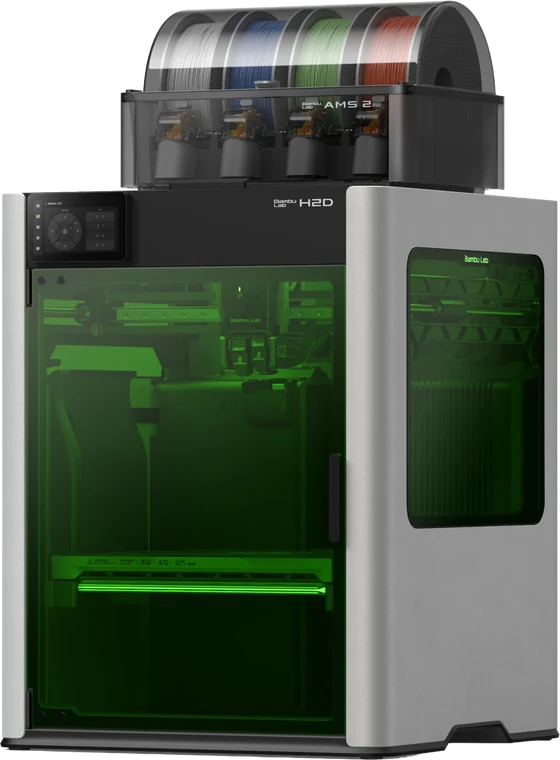
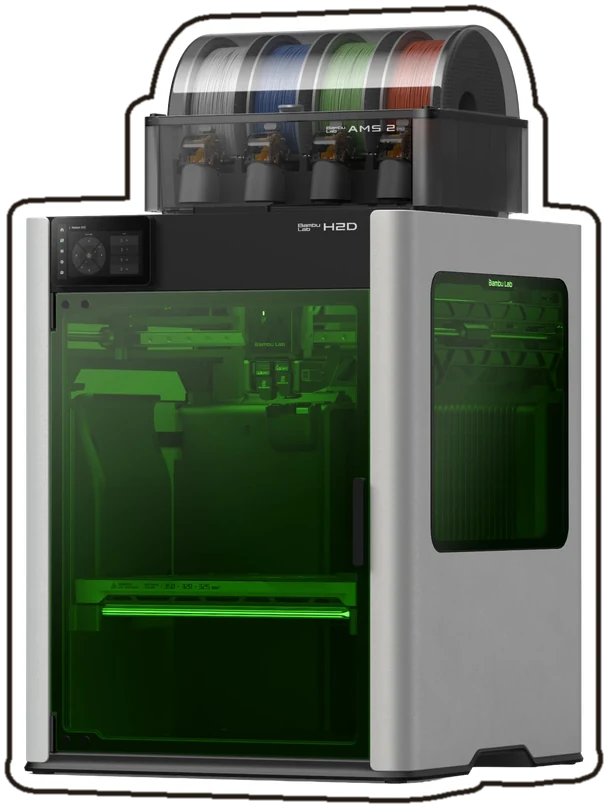
Make the peeking printers look like stickers
A white die-cut rim and ink edge baked into each cut-out, with the stamp shadow on top.

diff --git a/src/components/printer-peek.tsx b/src/components/printer-peek.tsx
@@ -1,9 +1,10 @@
 import type { ReactNode } from "react";
 
 /**
- * A printer cut-out tucked behind a card, so its top (the AMS and the lid)
- * peeks over the card's top edge. Centred on a phone, off to the right once
- * there is room. The card passed as `children` covers the rest of the
+ * A printer cut-out, die-cut like a sticker (the white rim and ink edge are
+ * baked into the image), tucked behind a card so its top (the AMS and the
+ * lid) peeks over the card's top edge. Centred on a phone, off to the right
+ * once there is room. The card passed as `children` covers the rest of the
  * picture. With no `src` the card is rendered on its own.
  */
 export function PrinterPeek({
@@ -19,9 +20,9 @@ export function PrinterPeek({
   return (
     <div className="relative pt-[158px]">
       {/* Cut off just under the card's top edge, so a short card never shows the printer's feet below it. */}
-      <div className="absolute left-1/2 top-0 h-[176px] w-[240px] -translate-x-1/2 overflow-hidden sm:left-auto sm:right-[36px] sm:translate-x-0">
+      <div className="absolute left-1/2 top-0 h-[176px] w-[264px] -translate-x-1/2 overflow-hidden sm:left-auto sm:right-[36px] sm:translate-x-0">
         {/* eslint-disable-next-line @next/next/no-img-element -- a small static cut-out */}
-        <img src={src} alt={alt} width={240} height={326} className="h-[326px] w-[240px] max-w-none object-contain" />
+        <img src={src} alt={alt} width={260} height={347} className="h-[347px] w-[260px] max-w-none object-contain drop-shadow-[3px_3px_0_var(--color-ink)]" />
       </div>
       <div className="relative z-[1]">{children}</div>
     </div>
